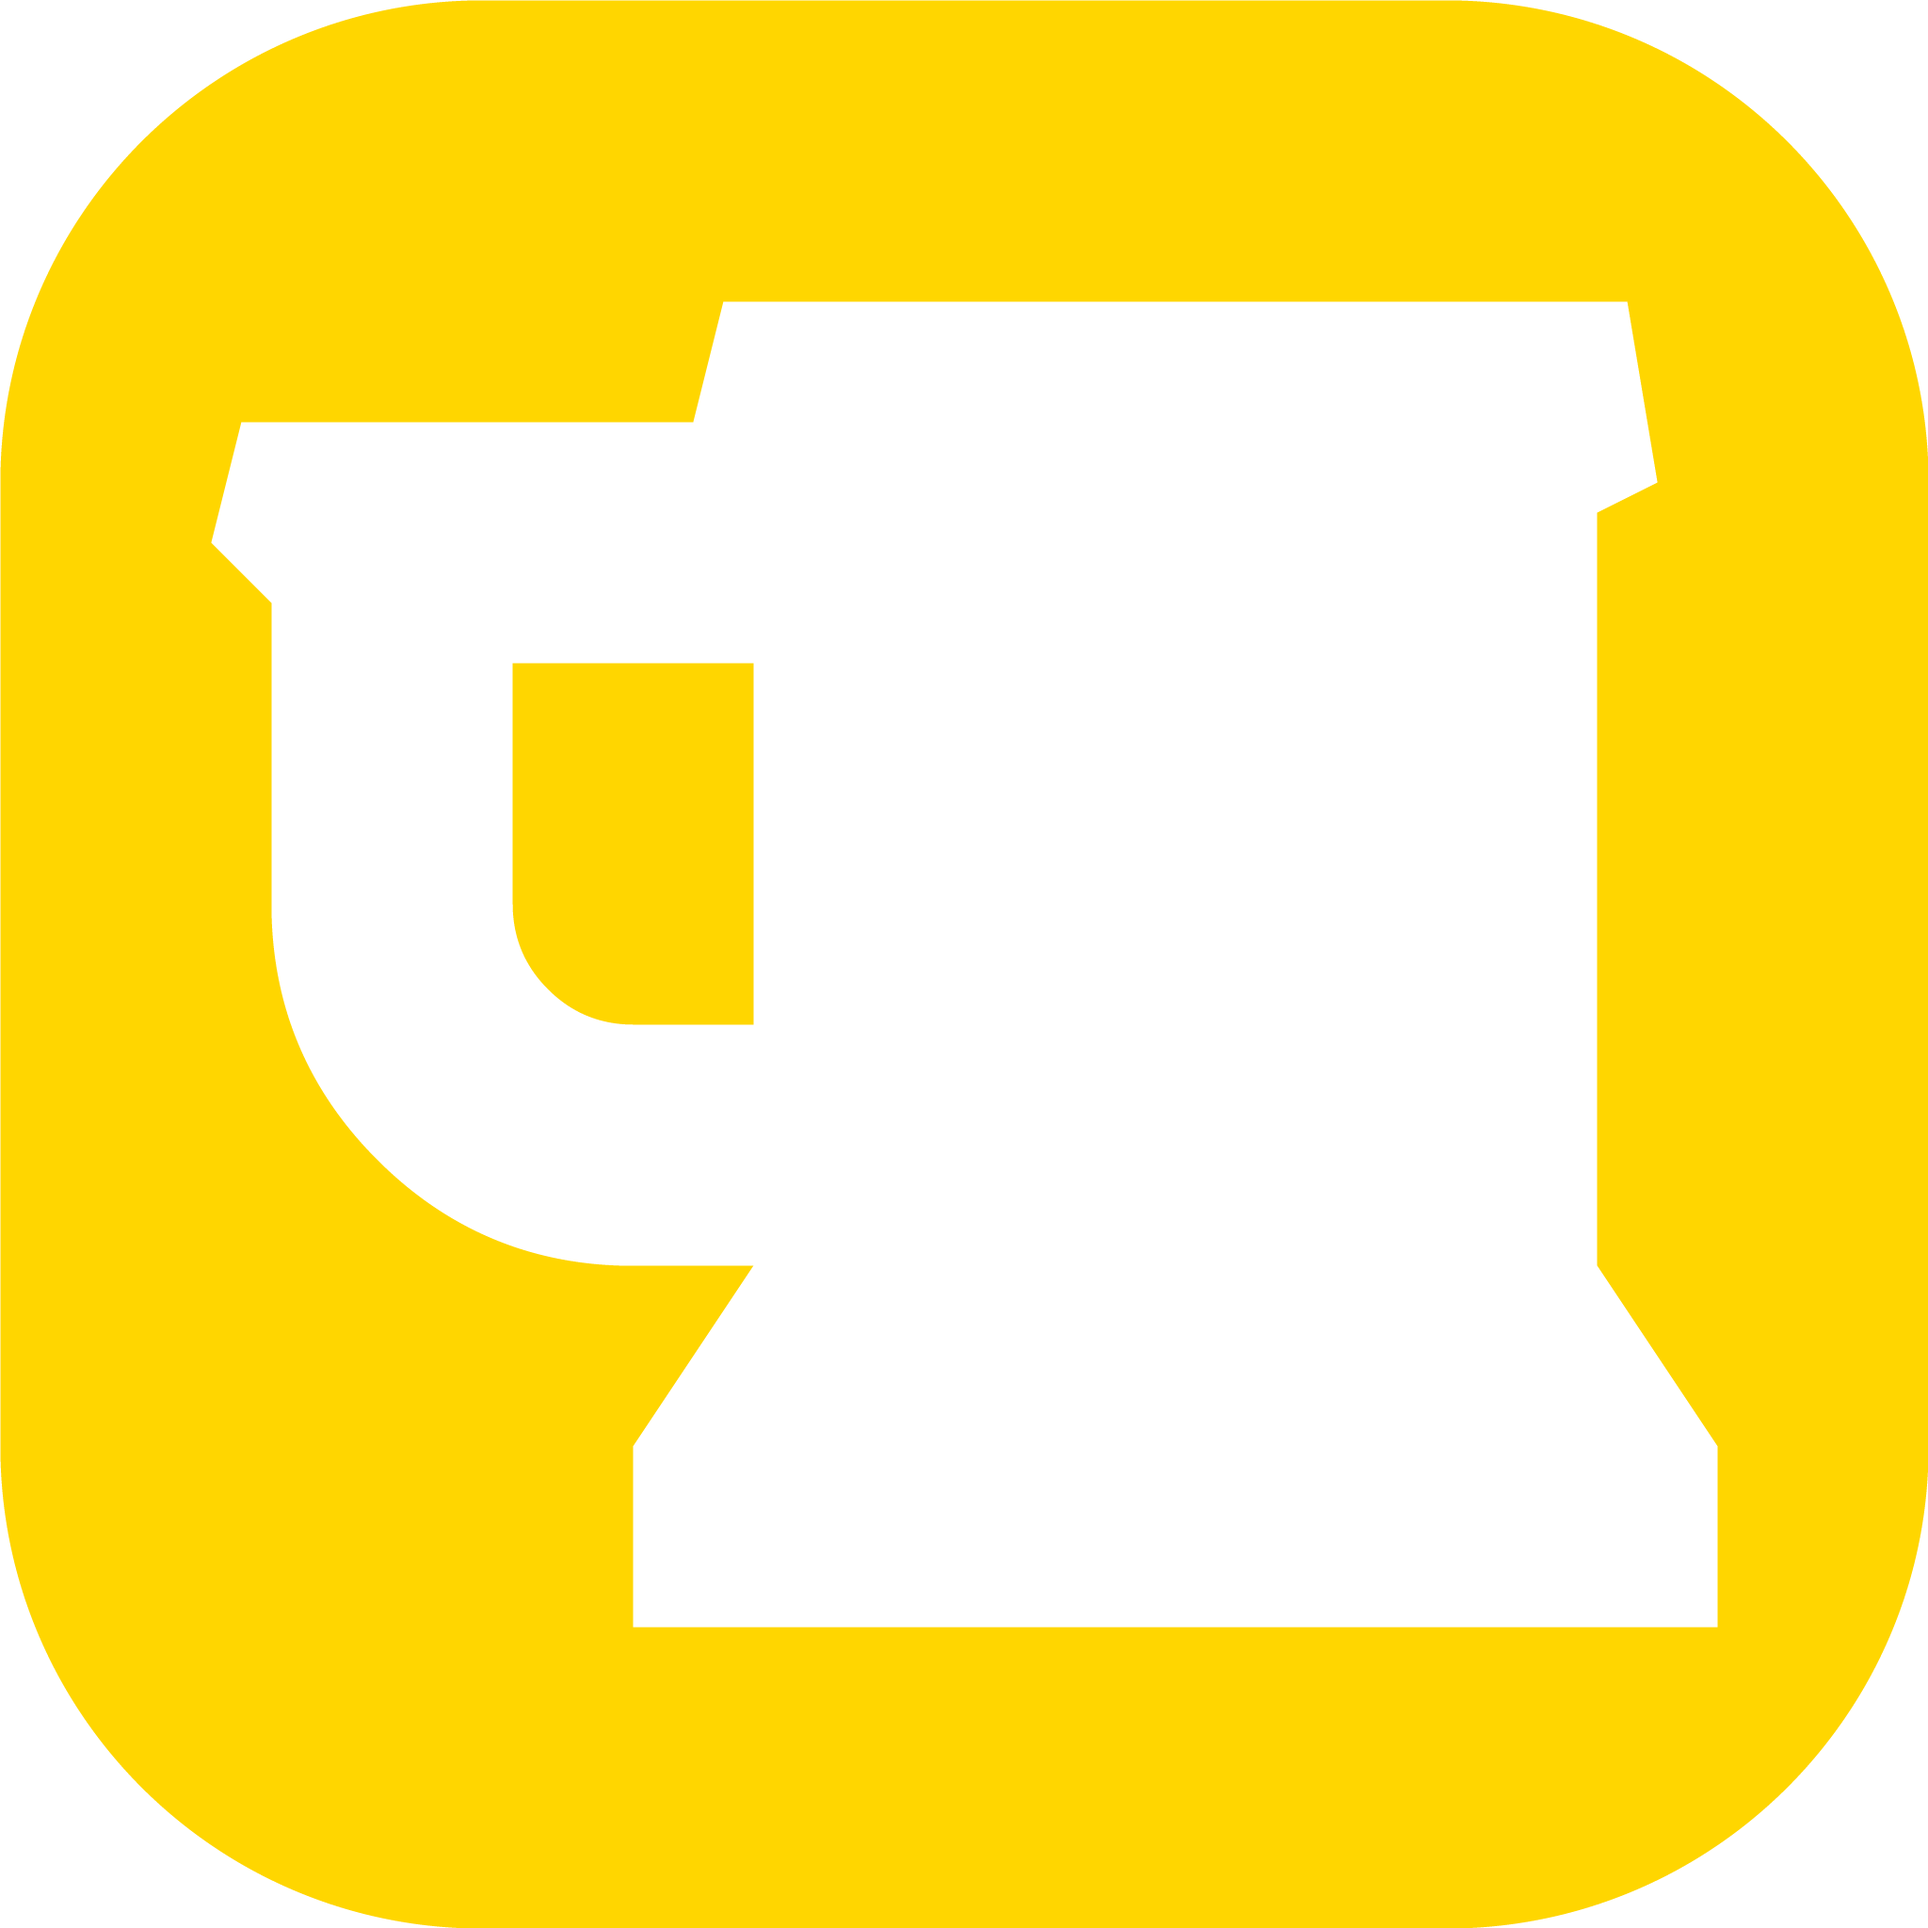
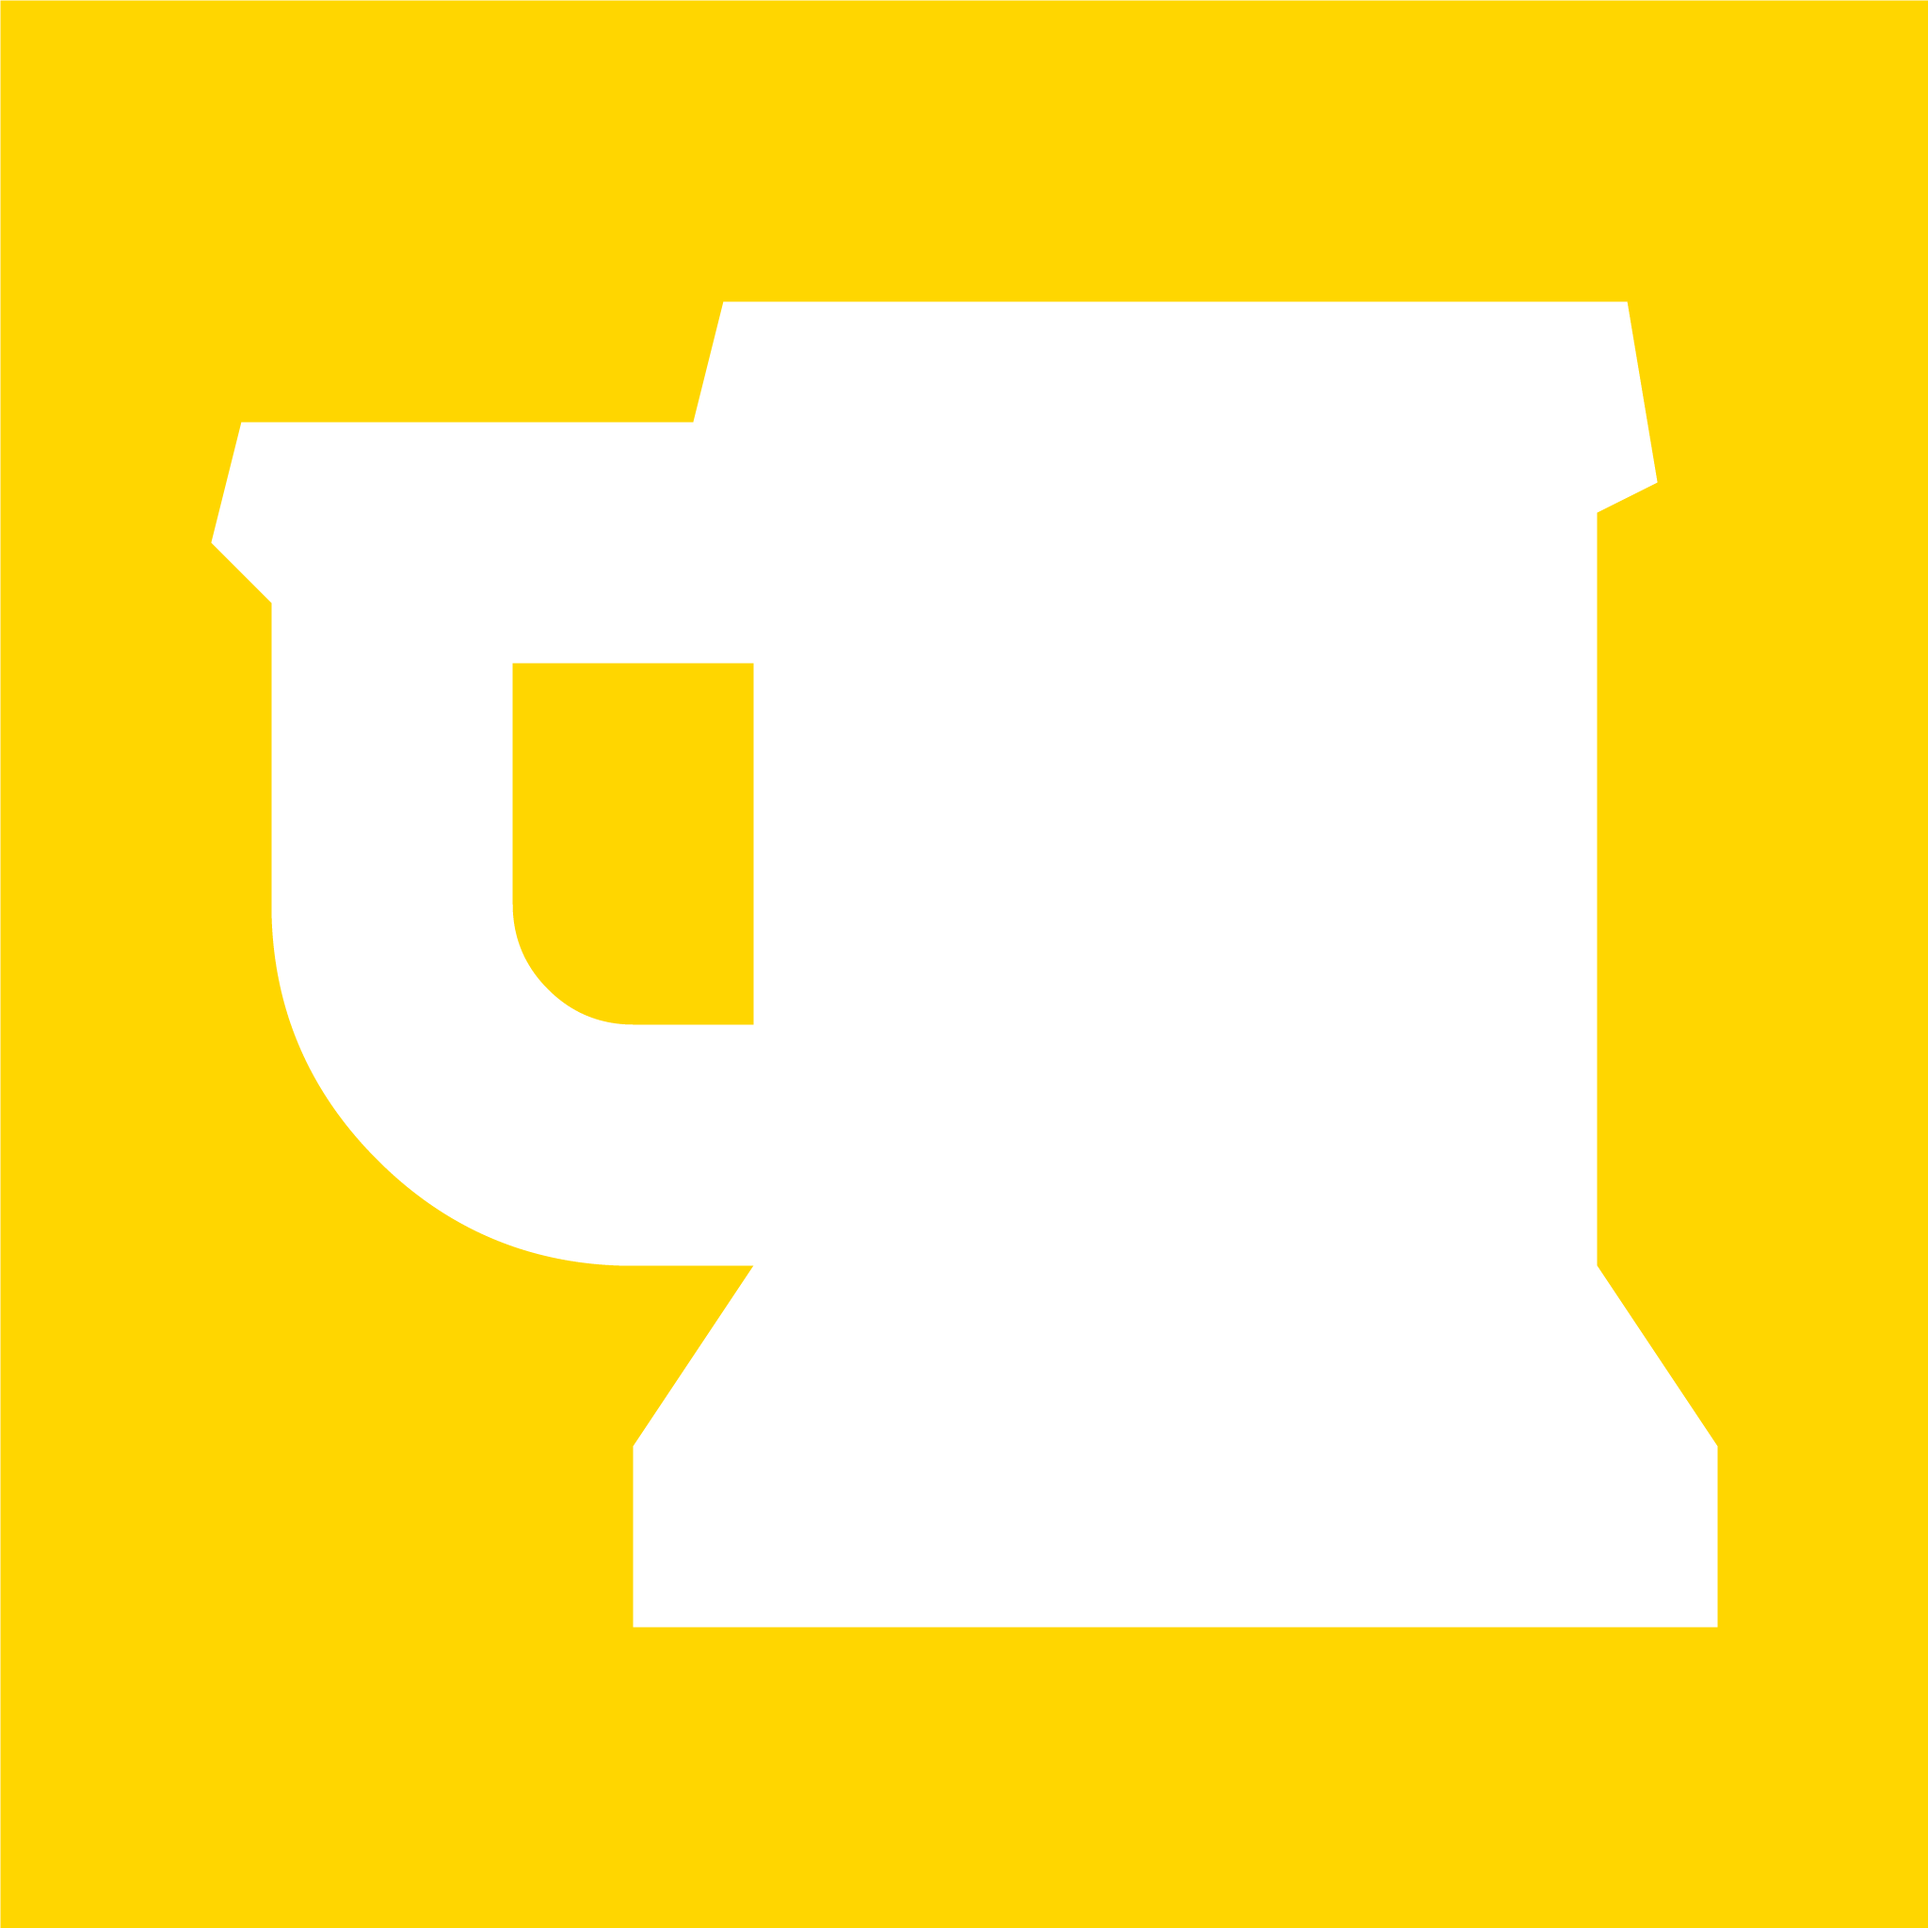
iOS tweaks

diff --git a/index.php b/index.php
@@ -77,16 +77,15 @@ function convert_utf8( $string ) {
 		<meta name="apple-mobile-web-app-capable" content="yes">
 		<meta name="apple-mobile-web-app-status-bar-style" content="black-translucent">
 		<meta name="apple-mobile-web-app-title" content="SMAF Bier">
-		<link rel="apple-touch-icon" href="img/touch/apple-touch-icon.png">
-		<link rel="apple-touch-icon" href="touch-icon-iphone.png">
-		
-		<link rel="apple-touch-icon" sizes="76x76" href="touch-icon-ipad.png">
-		<link rel="apple-touch-icon" sizes="120x120" href="touch-icon-iphone-retina.png">
-		<link rel="apple-touch-icon" sizes="152x152" href="touch-icon-ipad-retina.png">
-		<link rel="apple-touch-startup-image" href="/startup.png">
+
+		<link rel="apple-touch-icon" sizes="76x76" href="img/touch/touch-icon-ipad.png">
+		<link rel="apple-touch-icon" sizes="120x120" href="img/touch/touch-icon-iphone-retina.png">
+		<link rel="apple-touch-icon" sizes="152x152" href="img/touch/touch-icon-ipad-retina.png">
+		<link rel="apple-touch-icon" sizes="2048x2048" href="img/touch/apple-touch-icon.png">
+		<link rel="apple-touch-startup-image" href="img/touch/startup.png">
 
 		<meta name="msapplication-TileImage" content="img/touch/ms-touch-icon-144x144-precomposed.png">
-		<meta name="msapplication-TileColor" content="#ffc107">
+		<meta name="msapplication-TileColor" content="#ffd400">
 
 		<!-- normale boel -->
 		<link rel="stylesheet" href="./material.min.css" />
